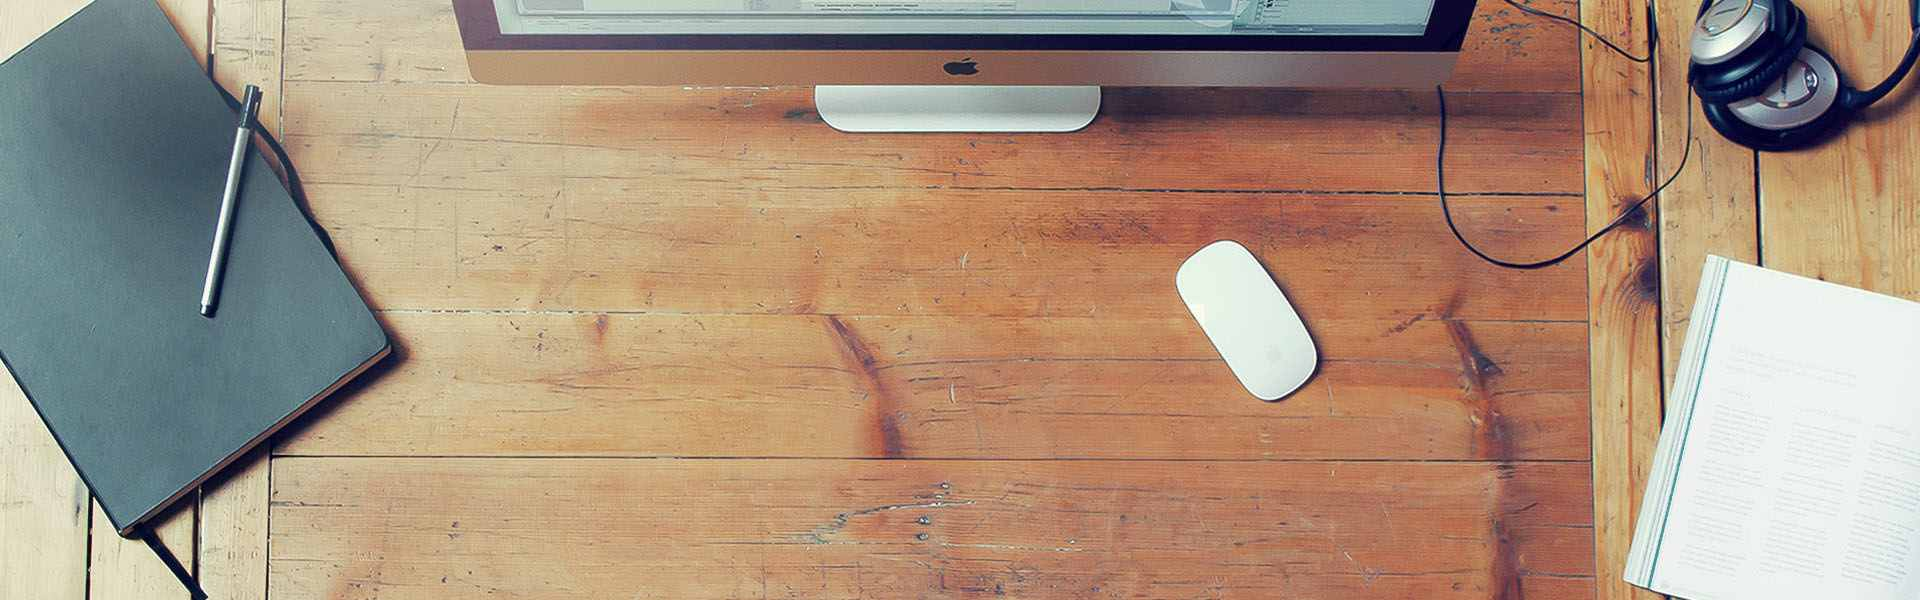
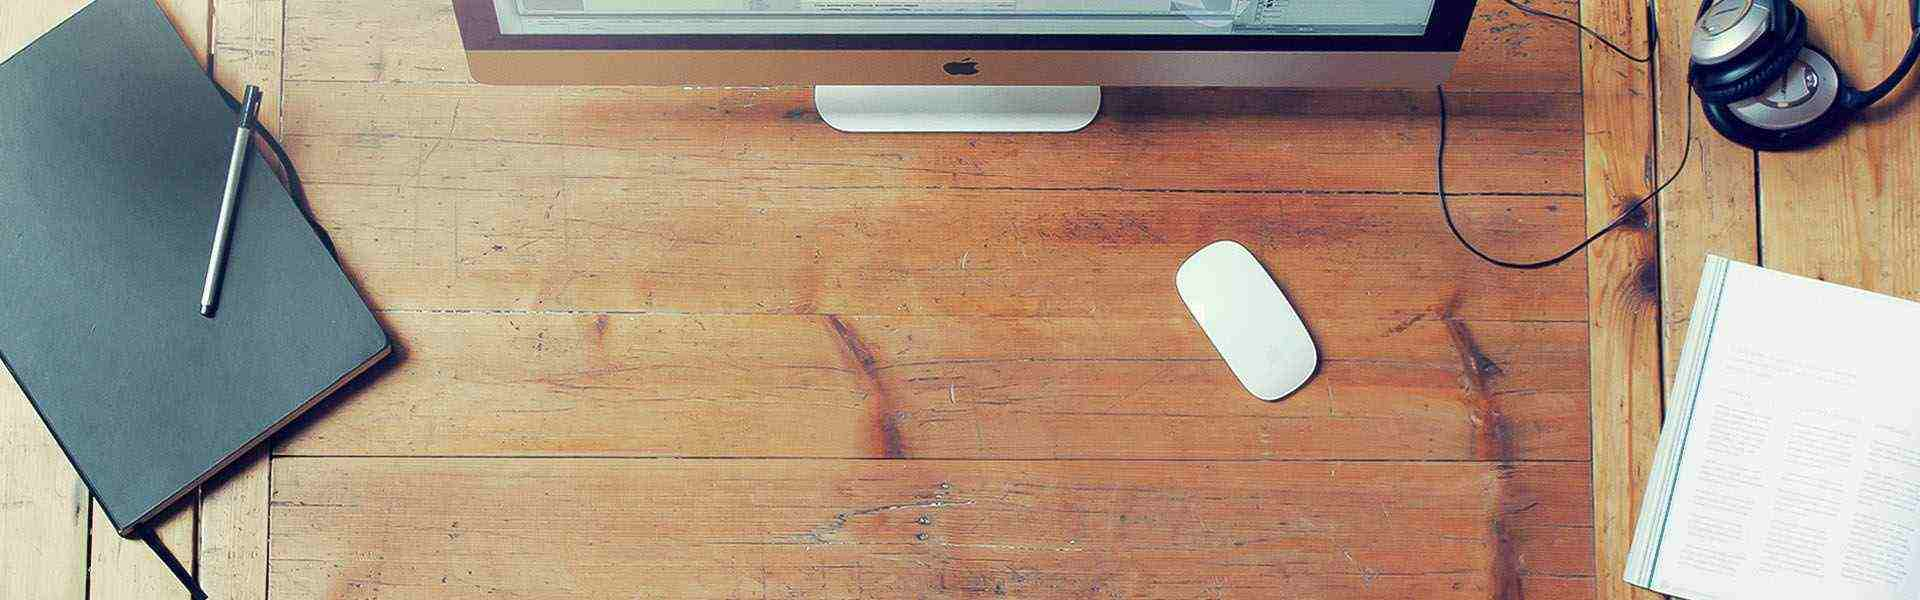
a

Changed region(s): [[0.9062, 0.0, 0.9375, 0.03], [0.8125, 0.39, 0.8438, 0.42], [0.7812, 0.0, 0.8125, 0.03]]

diff --git a/index.html b/index.html
@@ -16,7 +16,7 @@
 </head>
 <body>
 <div class="header">
-  <img src="images/banner.jpg" alt=" " height="200" width="320">
+  <img src="images/banner.webp" alt=" " height="200" width="320" onerror="this.src='images/banner.jpg'">
 	<div class="header-profile"><div class="header-profile-border"></div></div>
 </div>
 <div class="header-top">
